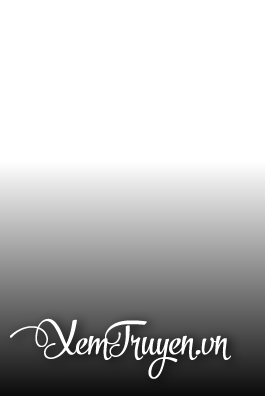
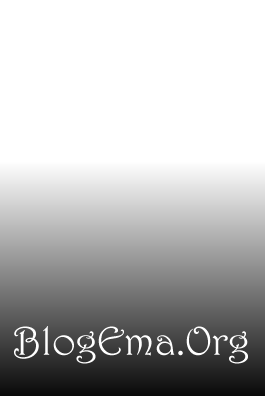
add blogema

Changed region(s): [[0.0302, 0.7879, 0.9358, 0.9697]]

diff --git a/src/servers/admin/sitemap/sitemap.controller.ts b/src/servers/admin/sitemap/sitemap.controller.ts
@@ -10,7 +10,7 @@ const { Readable } = require('stream');
 const { resolve, join } = require('path');
 const { createGzip } = require('zlib');
 const { createWriteStream } = require('fs');
-const HOST_NAME = 'https://xemtruyen.vn';
+const HOST_NAME = 'https://blogema.org';
 export const sitemapIndexController = (req: Request, res: Response) => {
     const folderPath = join(__dirname, '../../..', 'public', 'sitemap');
     if (!existsSync(folderPath)) {
@@ -36,7 +36,7 @@ export const createSiteMapGenderController = (req: Request, res: Response) => {
     listFile.forEach((item) => {
         links.push({ url: '/sitemap/' + item, changefreq: 'daily', priority: 1 });
     });
-    const stream = new SitemapStream({ hostname: 'https://xemtruyen.vn' });
+    const stream = new SitemapStream({ hostname: 'https://blogema.org' });
     const writeSteam = createWriteStream(fileName);
     Readable.from(links).pipe(stream).pipe(writeSteam);
     writeSteam.on('finish', () => {
@@ -56,7 +56,7 @@ export const genderSiteMapListController = async (req: Request, res: Response) =
     list.forEach((item) => {
         links.push({ url: '/danh-muc/' + item.slug, changefreq: 'daily', priority: 1 });
     });
-    const stream = new SitemapStream({ hostname: 'https://xemtruyen.vn' });
+    const stream = new SitemapStream({ hostname: 'https://blogema.org' });
     const writeSteam = createWriteStream(filePath);
     Readable.from(links).pipe(stream).pipe(writeSteam);
     writeSteam.on('finish', () => {
@@ -76,7 +76,7 @@ export const genderSiteMapAuthorController = async (req: Request, res: Response)
     list.forEach((item) => {
         links.push({ url: '/tac-gia/' + item.slug, changefreq: 'daily', priority: 1 });
     });
-    const stream = new SitemapStream({ hostname: 'https://xemtruyen.vn' });
+    const stream = new SitemapStream({ hostname: 'https://blogema.org' });
     const writeSteam = createWriteStream(filePath);
     Readable.from(links).pipe(stream).pipe(writeSteam);
     writeSteam.on('finish', () => {
@@ -96,7 +96,7 @@ export const genderSiteMapCategoryController = async (req: Request, res: Respons
     list.forEach((item) => {
         links.push({ url: '/tac-gia/' + item.slug, changefreq: 'daily', priority: 1 });
     });
-    const stream = new SitemapStream({ hostname: 'https://xemtruyen.vn' });
+    const stream = new SitemapStream({ hostname: 'https://blogema.org' });
     const writeSteam = createWriteStream(filePath);
     Readable.from(links).pipe(stream).pipe(writeSteam);
     writeSteam.on('finish', () => {

diff --git a/crawler/sitemap.ts b/crawler/sitemap.ts
@@ -16,7 +16,7 @@ mongoose
     });
 const renderSiteMap = () => {
     const links = [{ url: '/page-1/', changefreq: 'daily', priority: 0.3 }];
-    const stream = new SitemapStream({ hostname: 'https://xemtruyen.vn' });
+    const stream = new SitemapStream({ hostname: 'https://blogema.org' });
     return streamToPromise(Readable.from(links).pipe(stream)).then((data) =>
         console.log(data.toString()),
     );
@@ -48,11 +48,7 @@ const getData = async () => {
                 .pipe(createGzip()) // compress the output of the sitemap
                 .pipe(createWriteStream(resolve(path + '.gz'))); // write it to sitemap-NUMBER.xml
 
-            return [
-                new URL(path, 'https://xemtruyen.vn/sitemap/').toString(),
-                sitemapStream,
-                ws,
-            ];
+            return [new URL(path, 'https://blogema.org/sitemap/').toString(), sitemapStream, ws];
         },
     });
     arrayOfSitemapItems.forEach((item) => sms.write(item));
